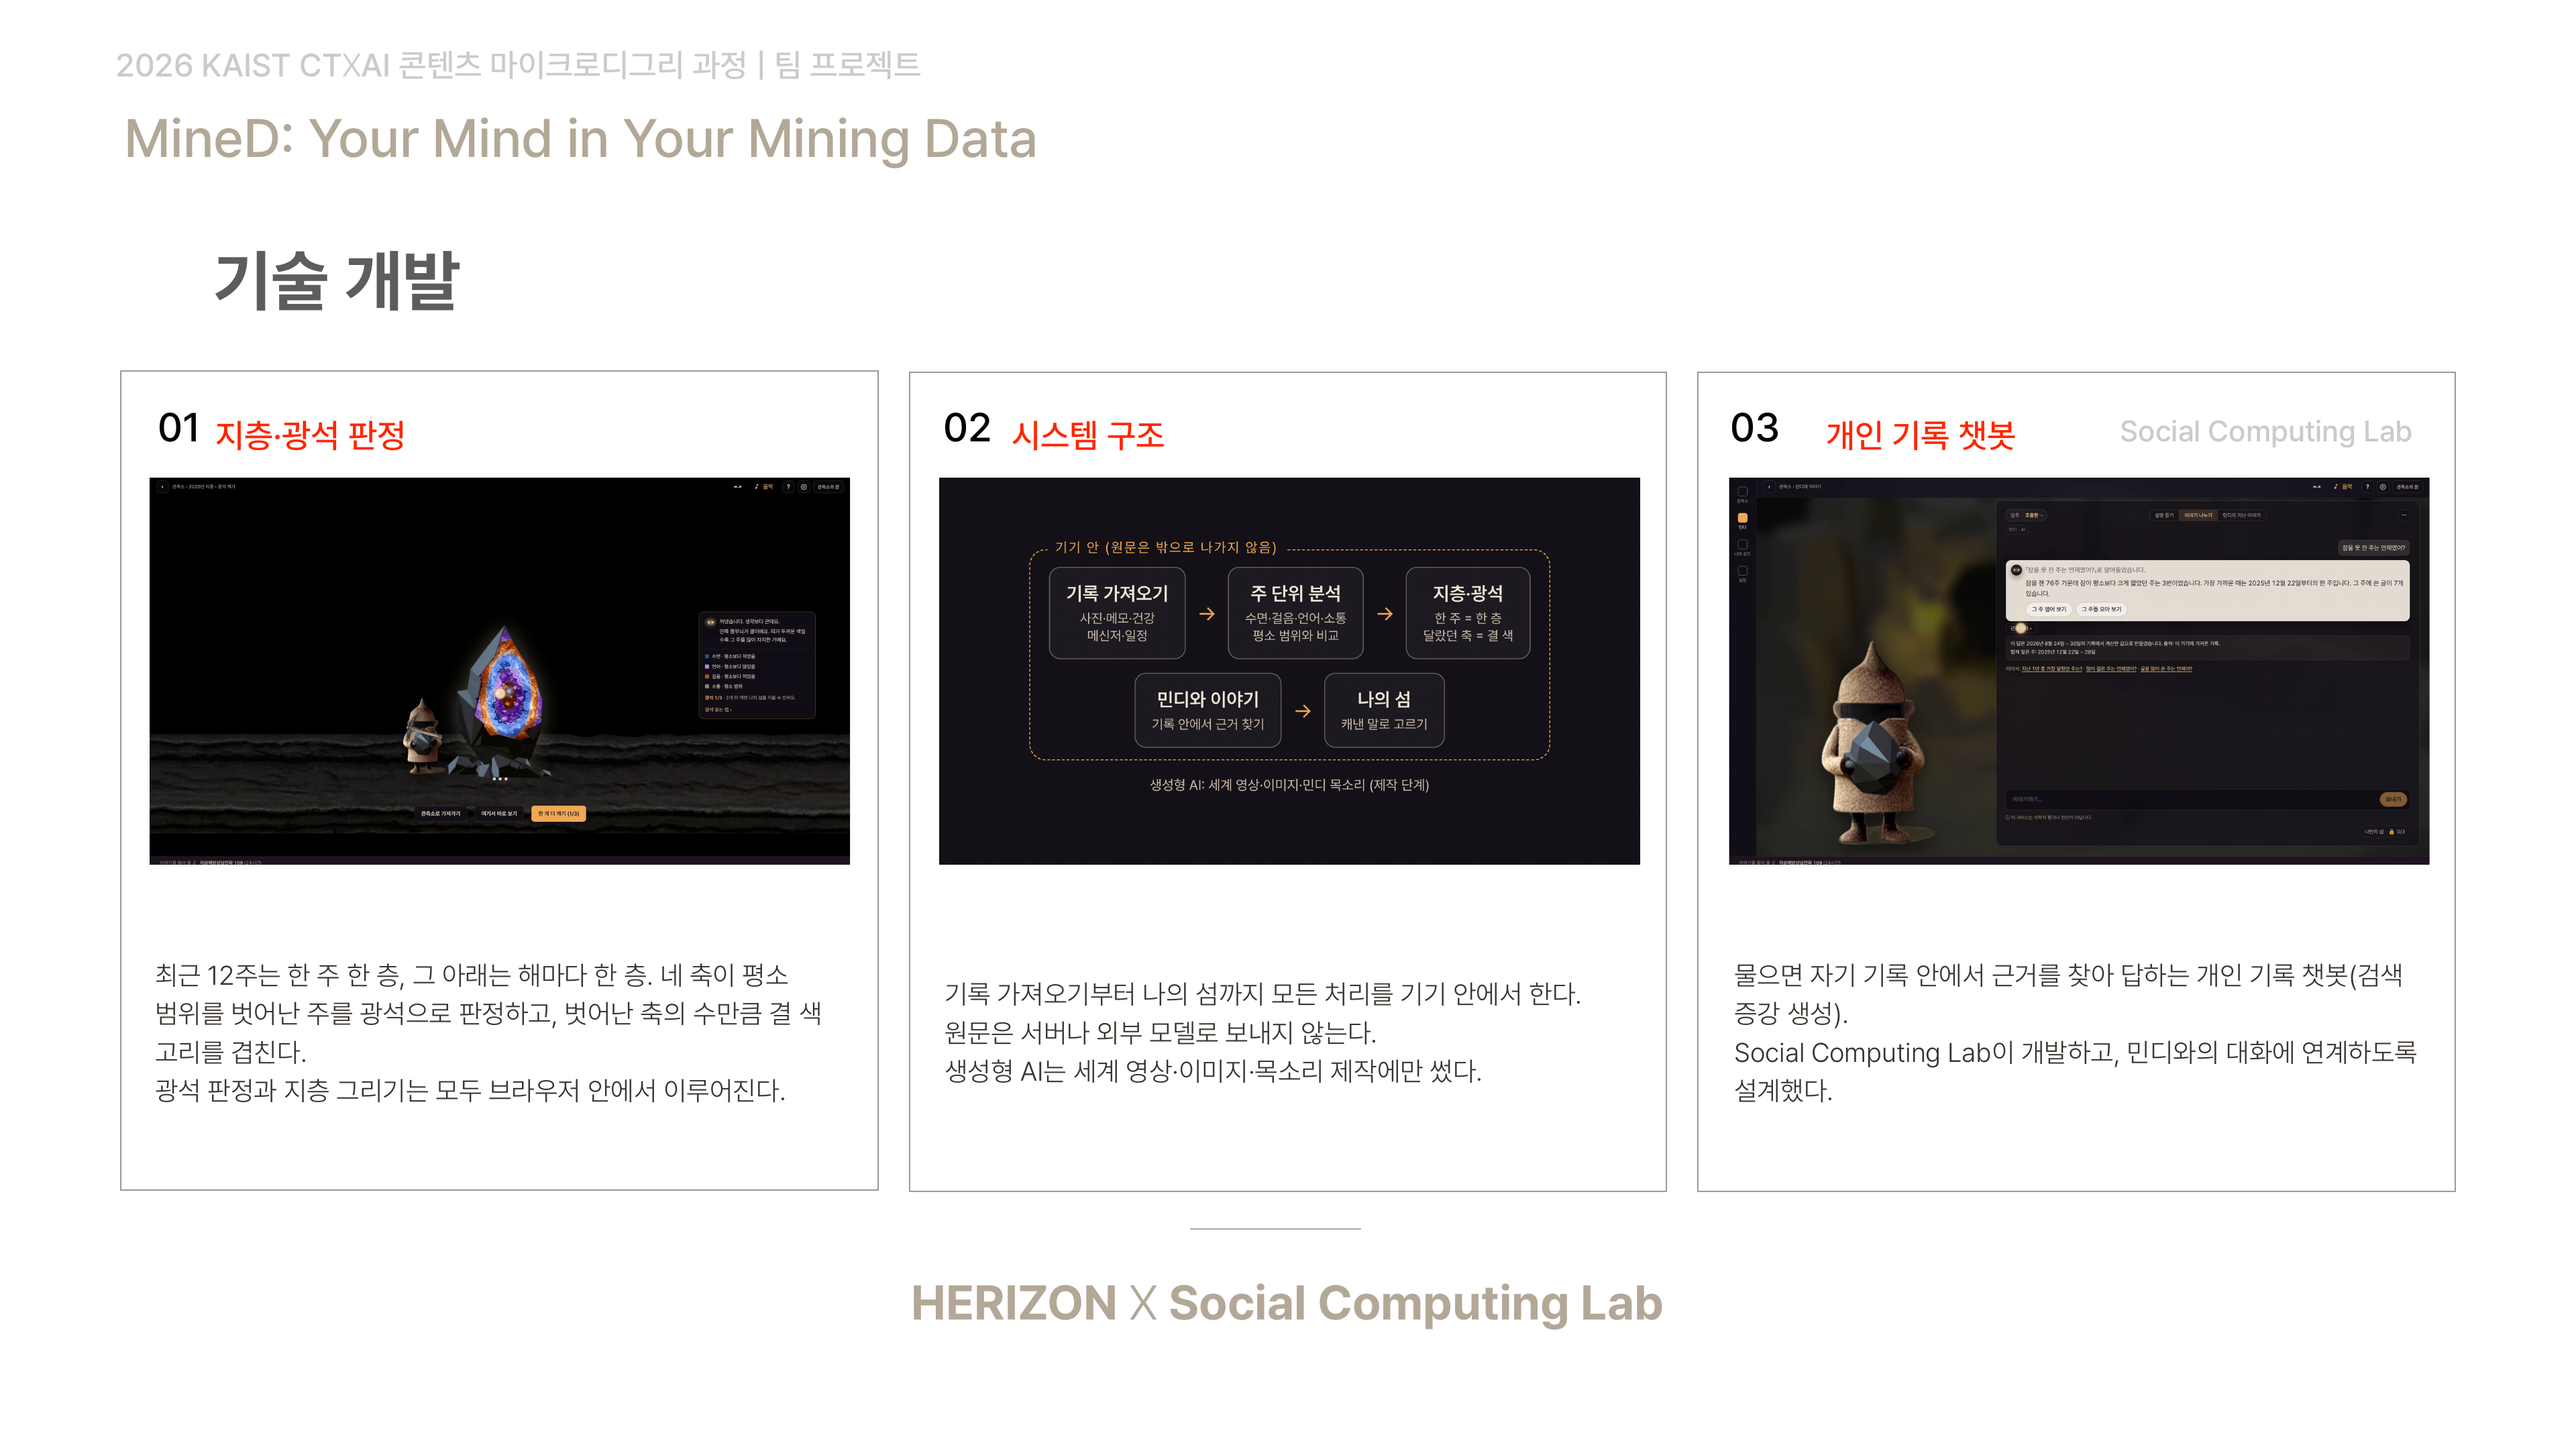
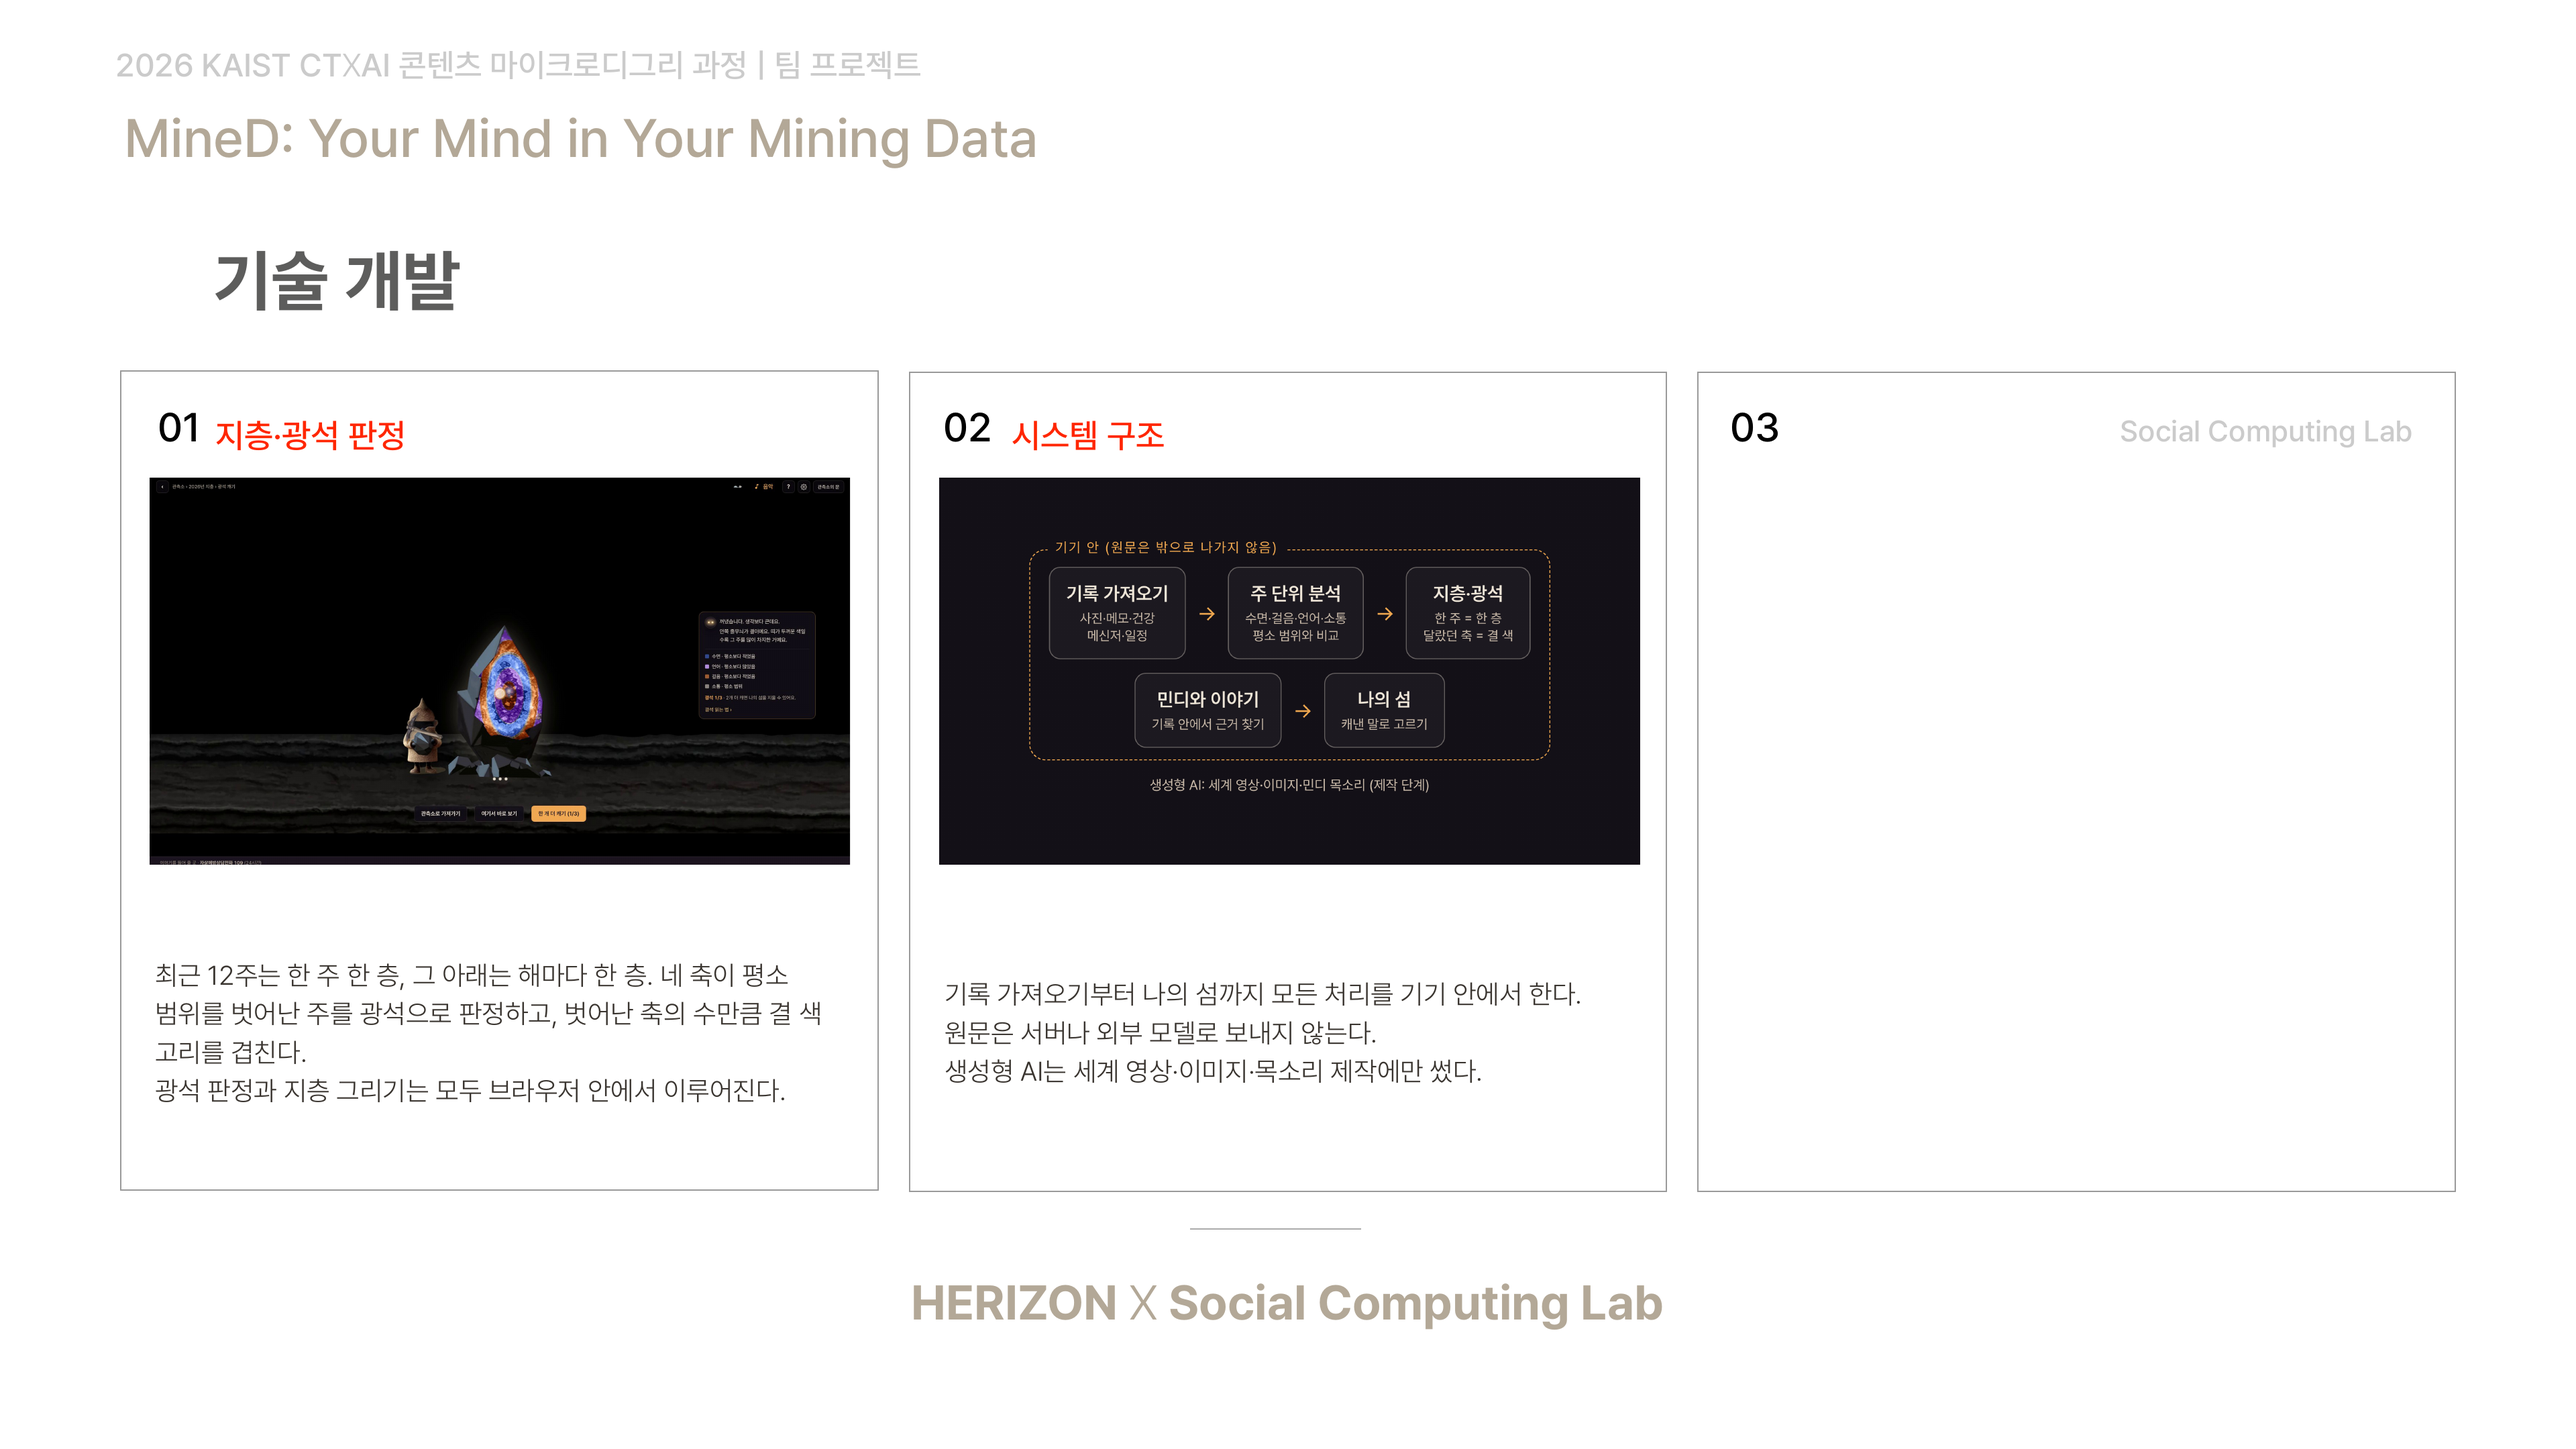
showcase v2: main cut copy says why it matters, islands without short pieces and level-matched sound, lab box left blank
Claude-Session: https://claude.ai/code/session_01H6XxrjKT2zziYGGeC5Esr8

Changed region(s): [[0.6562, 0.2792, 0.9688, 0.6204], [0.6875, 0.6514, 0.9375, 0.7755]]

diff --git a/showcase/v0.5_kit/build5.py b/showcase/v0.5_kit/build5.py
@@ -183,19 +183,19 @@ DEMO = [
 ]
 DXF = 0.4
 
-# ───────────────────────── 1분 축약판(메인 디스플레이)용 구간
+# ───────────────────────── 1분 축약판(메인 디스플레이)용 구간 · 11/09 보별: 처음 보는 사람에게 왜 필요한지 읽히게(m0·mw 카드)
 STORY_S = [
-    (f'{K3}/gen/K01.mp4', 0.0, 4.5, True, None, [('sub01', 0.6, 4.3, 'C01_1')]),
+    (f'{K3}/gen/K01.mp4', 0.0, 4.5, True, None, [('m0', 0.5, 4.3, 'C01_1')]),
     ('rec/walk.mp4', 0.5, 7.5, False, (1.0, 1.08, 1000, 600), [('sub02', 3.9, 7.3, 'C02_2')]),
 ]
 DEMO_S = [
-    ('rec/mine3.mp4', 9.4, 14.3, 1.0, (1.0, 1.08, 960, 480), [('w1', 0.3, 4.9)], []),
-    ('rec/mine3.mp4', 14.2, 25.0, 1.0, (1.0, 1.08, 1100, 640), [('pip1', 0.8, 10.8), ('w2', 0.8, 10.8)],
+    ('rec/mine3.mp4', 9.4, 14.3, 1.0, (1.0, 1.08, 960, 480), [('mw1', 0.3, 4.9)], []),
+    ('rec/mine3.mp4', 14.2, 25.0, 1.0, (1.0, 1.08, 1100, 640), [('pip1', 0.8, 10.8), ('mw2', 0.8, 10.8)],
      [('tap', 14.46, 1.2), ('pick', 18.09, 1.1), ('pick', 20.45, 1.1), ('pick', 22.81, 1.1),
       ('ore_crack', 22.88, 1.0), ('glint', 23.66, 1.0)]),
-    ('rec/chat.mp4', 16.5, 23.35, 1.0, (1.12, 1.30, 1300, 420), [('w3', 0.3, 6.85)],
+    ('rec/chat.mp4', 16.5, 23.35, 1.0, (1.12, 1.30, 1300, 420), [('mw3', 0.3, 6.85)],
      [('panel_open', 21.19, 1.8)]),
-    ('rec/island.mp4', 6.0, 36.6, 2.8, (1.18, 1.30, 1250, 560), [('w4', 0.3, 10.9)],
+    ('rec/island.mp4', 6.0, 36.6, 2.8, (1.18, 1.30, 1250, 560), [('mw4', 0.3, 10.9)],
      [('tap', 8.13, 0.9), ('tap', 10.75, 0.9), ('tap', 12.57, 0.9), ('tap', 17.8, 0.9), ('tap', 20.45, 0.9),
       ('tap', 23.09, 0.9), ('tap', 25.76, 0.9), ('keep', 29.28, 1.0), ('space_open', 31.8, 1.2)]),
 ]
@@ -242,9 +242,10 @@ ISLAND_CUTS = {'sky': [(4.4, 12.6), (30.5, 35.5)], 'jungle': [(6.0, 11.1), (27.0
 
 
 # ───────────────────────── 6 나의 섬 (섬 고르기 녹화에서 고른 음악방부터)
-def islands(spaces, out, cap=12.0, ixf=0.4, xf=0.8):
+def islands(spaces, out, cap=12.0, ixf=0.6, xf=0.8, min_piece=3.0):
     """spaces: [(파일, [(a,b),...], key)]. myspace.json의 구간 안에서만 자른다(구간 밖 컷이 섞이지 않게).
-    섬 하나는 최대 cap초: 구간을 차례로 쓰고, 넘치면 마지막 구간을 줄인다."""
+    섬 하나는 최대 cap초: 구간을 차례로 쓰고, 넘치면 마지막 구간을 줄인다.
+    min_piece초보다 짧게 남는 조각은 넣지 않는다(11/09 보별: 중간에 너무 짧은 컷 금지)."""
     ins, fc = [], ''
     for f, *_x in spaces:
         ins += ['-i', f]
@@ -255,9 +256,9 @@ def islands(spaces, out, cap=12.0, ixf=0.4, xf=0.8):
     for i, (f, cuts, key) in enumerate(spaces):
         use, left = [], cap
         for (ca, cb) in cuts:
-            if left <= 1.0:
-                break
             d = min(cb - ca, left + (ixf if use else 0))
+            if d < min_piece:
+                break
             use.append((ca, ca + d))
             left -= d - (ixf if len(use) > 1 else 0)
         k = len(use)
@@ -266,20 +267,21 @@ def islands(spaces, out, cap=12.0, ixf=0.4, xf=0.8):
         for j, (ca, cb) in enumerate(use):
             fc += (f'[sv{i}_{j}]trim={ca}:{cb},setpts=PTS-STARTPTS,{fit()}[cv{i}_{j}];'
                    f'[sa{i}_{j}]atrim={ca}:{cb},asetpts=PTS-STARTPTS,aresample=48000,'
-                   f'aformat=channel_layouts=stereo,volume=0.9[ca{i}_{j}];')
+                   f'aformat=channel_layouts=stereo[ca{i}_{j}];')
         vacc, aacc, t = f'cv{i}_0', f'ca{i}_0', use[0][1] - use[0][0]
         for j in range(1, k):
             fc += (f'[{vacc}][cv{i}_{j}]xfade=transition=fade:duration={ixf}:offset={t - ixf:.2f}[iv{i}_{j}];'
-                   f'[{aacc}][ca{i}_{j}]acrossfade=d={ixf}[ia{i}_{j}];')
+                   f'[{aacc}][ca{i}_{j}]acrossfade=d={ixf}:c1=qsin:c2=qsin[ia{i}_{j}];')
             vacc, aacc, t = f'iv{i}_{j}', f'ia{i}_{j}', t + (use[j][1] - use[j][0]) - ixf
         fc += (ov(n + i, 0.5, min(5.5, t - 0.3), 0.4) + f'[o{i}];[{vacc}][o{i}]overlay=0:0:shortest=1,'
-               f'trim=0:{t:.3f},setpts=PTS-STARTPTS[t{i}];[{aacc}]atrim=0:{t:.3f}[n{i}];')
+               f'trim=0:{t:.3f},setpts=PTS-STARTPTS[t{i}];'
+               f'[{aacc}]atrim=0:{t:.3f},loudnorm=I=-24:LRA=6:TP=-4,aresample=48000[n{i}];')  # 섬마다 같은 크기로
         lens.append(t)
         print(f'  섬 {key}: ' + ', '.join(f'{x:.1f}~{y:.1f}' for x, y in use) + f' → {t:.1f}초')
     acc, aacc, t = 't0', 'n0', lens[0]
     for i in range(1, n):
         fc += f'[{acc}][t{i}]xfade=transition=fade:duration={xf}:offset={t - xf:.2f}[w{i}];'
-        fc += f'[{aacc}][n{i}]acrossfade=d={xf}[m{i}];'
+        fc += f'[{aacc}][n{i}]acrossfade=d={xf}:c1=qsin:c2=qsin[m{i}];'
         acc, aacc, t = f'w{i}', f'm{i}', t + lens[i] - xf
     total = t
     fc += (f'[{acc}]fade=t=in:st=0:d=0.5,fade=t=out:st={total - 0.8:.2f}:d=0.8[v];'
@@ -388,17 +390,17 @@ def main():
         story('seg/03_story.mp4', STORY_S); segs.append('03_story')
         demo('seg/05_demo.mp4', DEMO_S); segs.append('05_demo')
         two = [x for x in spaces if x[2] in ('sea', 'sky')]
-        islands(two, 'seg/06_islands.mp4', cap=4.5); segs.append('06_islands')
+        islands(two, 'seg/06_islands.mp4', cap=6.0); segs.append('06_islands')
         ending('seg/07_end.mp4', short=True); segs.append('07_end')
     else:
         story('seg/03_story.mp4'); segs.append('03_story')
         bridge('seg/04_bridge.mp4'); segs.append('04_bridge')
-        two_min = o.cut == 'sub'  # 서브·심포지엄의 「풀 영상」 자리는 2분 내외: 섬 고르기를 빠르게, 섬마다 8초
+        two_min = o.cut == 'sub'  # 서브·심포지엄 「풀 영상」: 섬 고르기를 조금 빠르게, 섬마다 10초(운영: 3분 조금 넘어도 됨)
         dm = [(x[:3] + (2.0,) + x[4:]) if two_min and 'island' in x[0] else x for x in DEMO]
         demo('seg/05_demo.mp4', dm); segs.append('05_demo')
-        if two_min:  # 8초 상한에서도 하늘산은 구름바다 와이드로 끝나게
-            spaces = [(f, [(4.4, 8.4), (30.5, 34.5)] if k == 'sky' else c, k) for f, c, k in spaces]
-        islands(spaces, 'seg/06_islands.mp4', cap=8.0 if two_min else 12.0); segs.append('06_islands')
+        if two_min:  # 10초 상한에서도 하늘산은 구름바다 와이드로 끝나게
+            spaces = [(f, [(4.4, 9.4), (30.5, 35.5)] if k == 'sky' else c, k) for f, c, k in spaces]
+        islands(spaces, 'seg/06_islands.mp4', cap=10.0 if two_min else 12.0); segs.append('06_islands')
         ending('seg/07_end.mp4'); segs.append('07_end')
     if post:
         pages(post, '08_post')

diff --git a/showcase/v0.5_kit/layout/fill.py b/showcase/v0.5_kit/layout/fill.py
@@ -119,12 +119,11 @@ pic(s9, I('strata.png'), 36.0, 16.1, 14.3, 2.7)
 s10 = S(10); kill(s10, '여기엔 주요 기술')
 set_text(find(s10, '주요 개발 기술'), ['지층·광석 판정'])
 set_text(find(s10, '시스템 구조'), ['시스템 구조'])
-set_text(find(s10, 'OOOO'), ['개인 기록 챗봇'])
+set_text(find(s10, 'OOOO'), [' '])  # 11/09 운영: 연구실 칸은 연구실이 작성 중, 비워 둠
 tmpl = b1  # 9번 본문 상자 서식 복제
 for k, (img, lines) in enumerate([
     ('ore.png', ['최근 12주는 한 주 한 층, 그 아래는 해마다 한 층. 네 축이 평소 범위를 벗어난 주를 광석으로 판정하고, 벗어난 축의 수만큼 결 색 고리를 겹친다.', '광석 판정과 지층 그리기는 모두 브라우저 안에서 이루어진다.']),
     ('diag.png', ['기록 가져오기부터 나의 섬까지 모든 처리를 기기 안에서 한다. 원문은 서버나 외부 모델로 보내지 않는다.', '생성형 AI는 세계 영상·이미지·목소리 제작에만 썼다.']),
-    ('chat.png', ['물으면 자기 기록 안에서 근거를 찾아 답하는 개인 기록 챗봇(검색 증강 생성).', 'Social Computing Lab이 개발하고, 민디와의 대화에 연계하도록 설계했다.']),
 ]):
     x = 2.5 + k * 16.35
     pic(s10, I(img), x + 0.6, 9.9, 14.5, 8.0)
